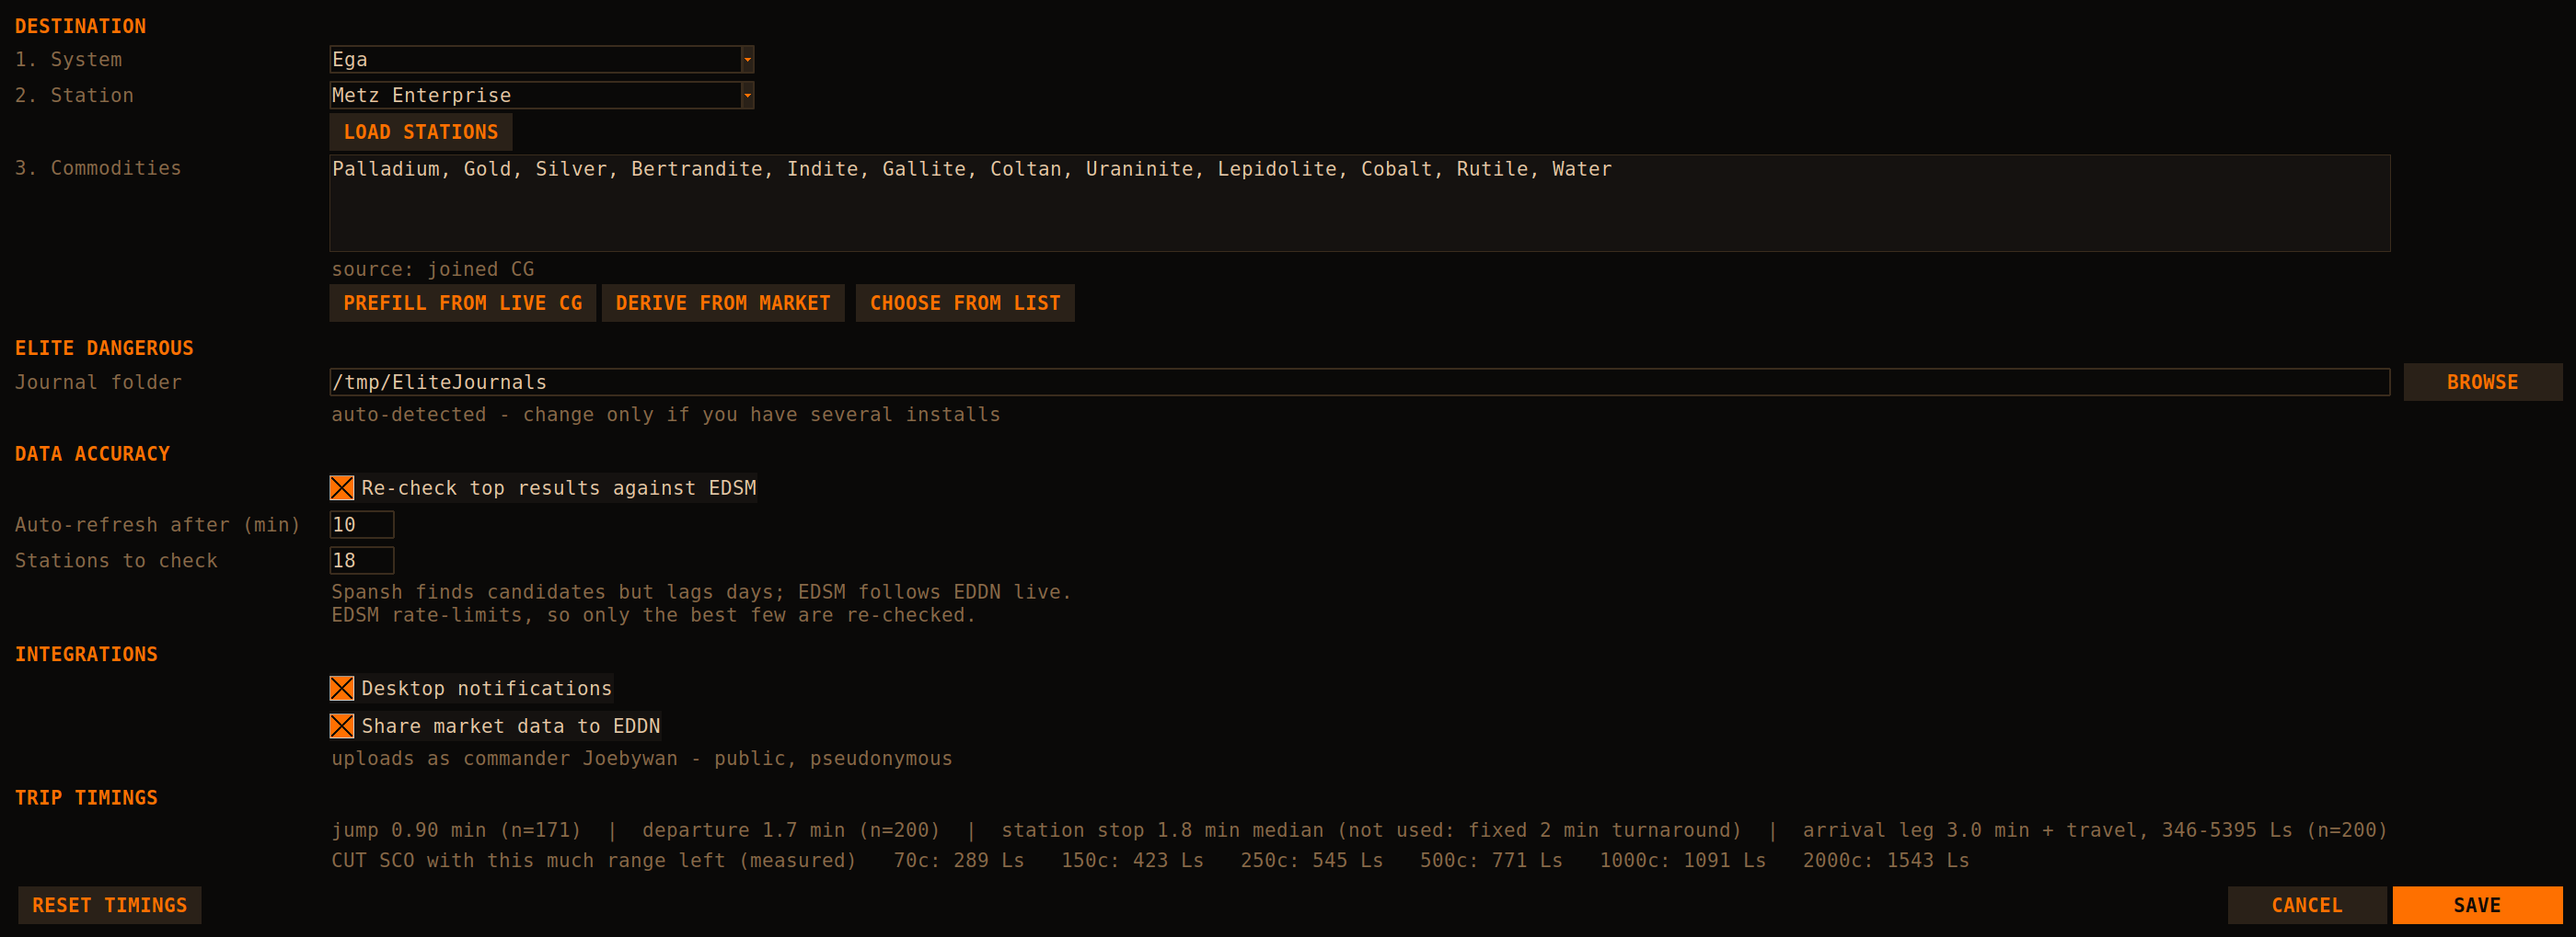
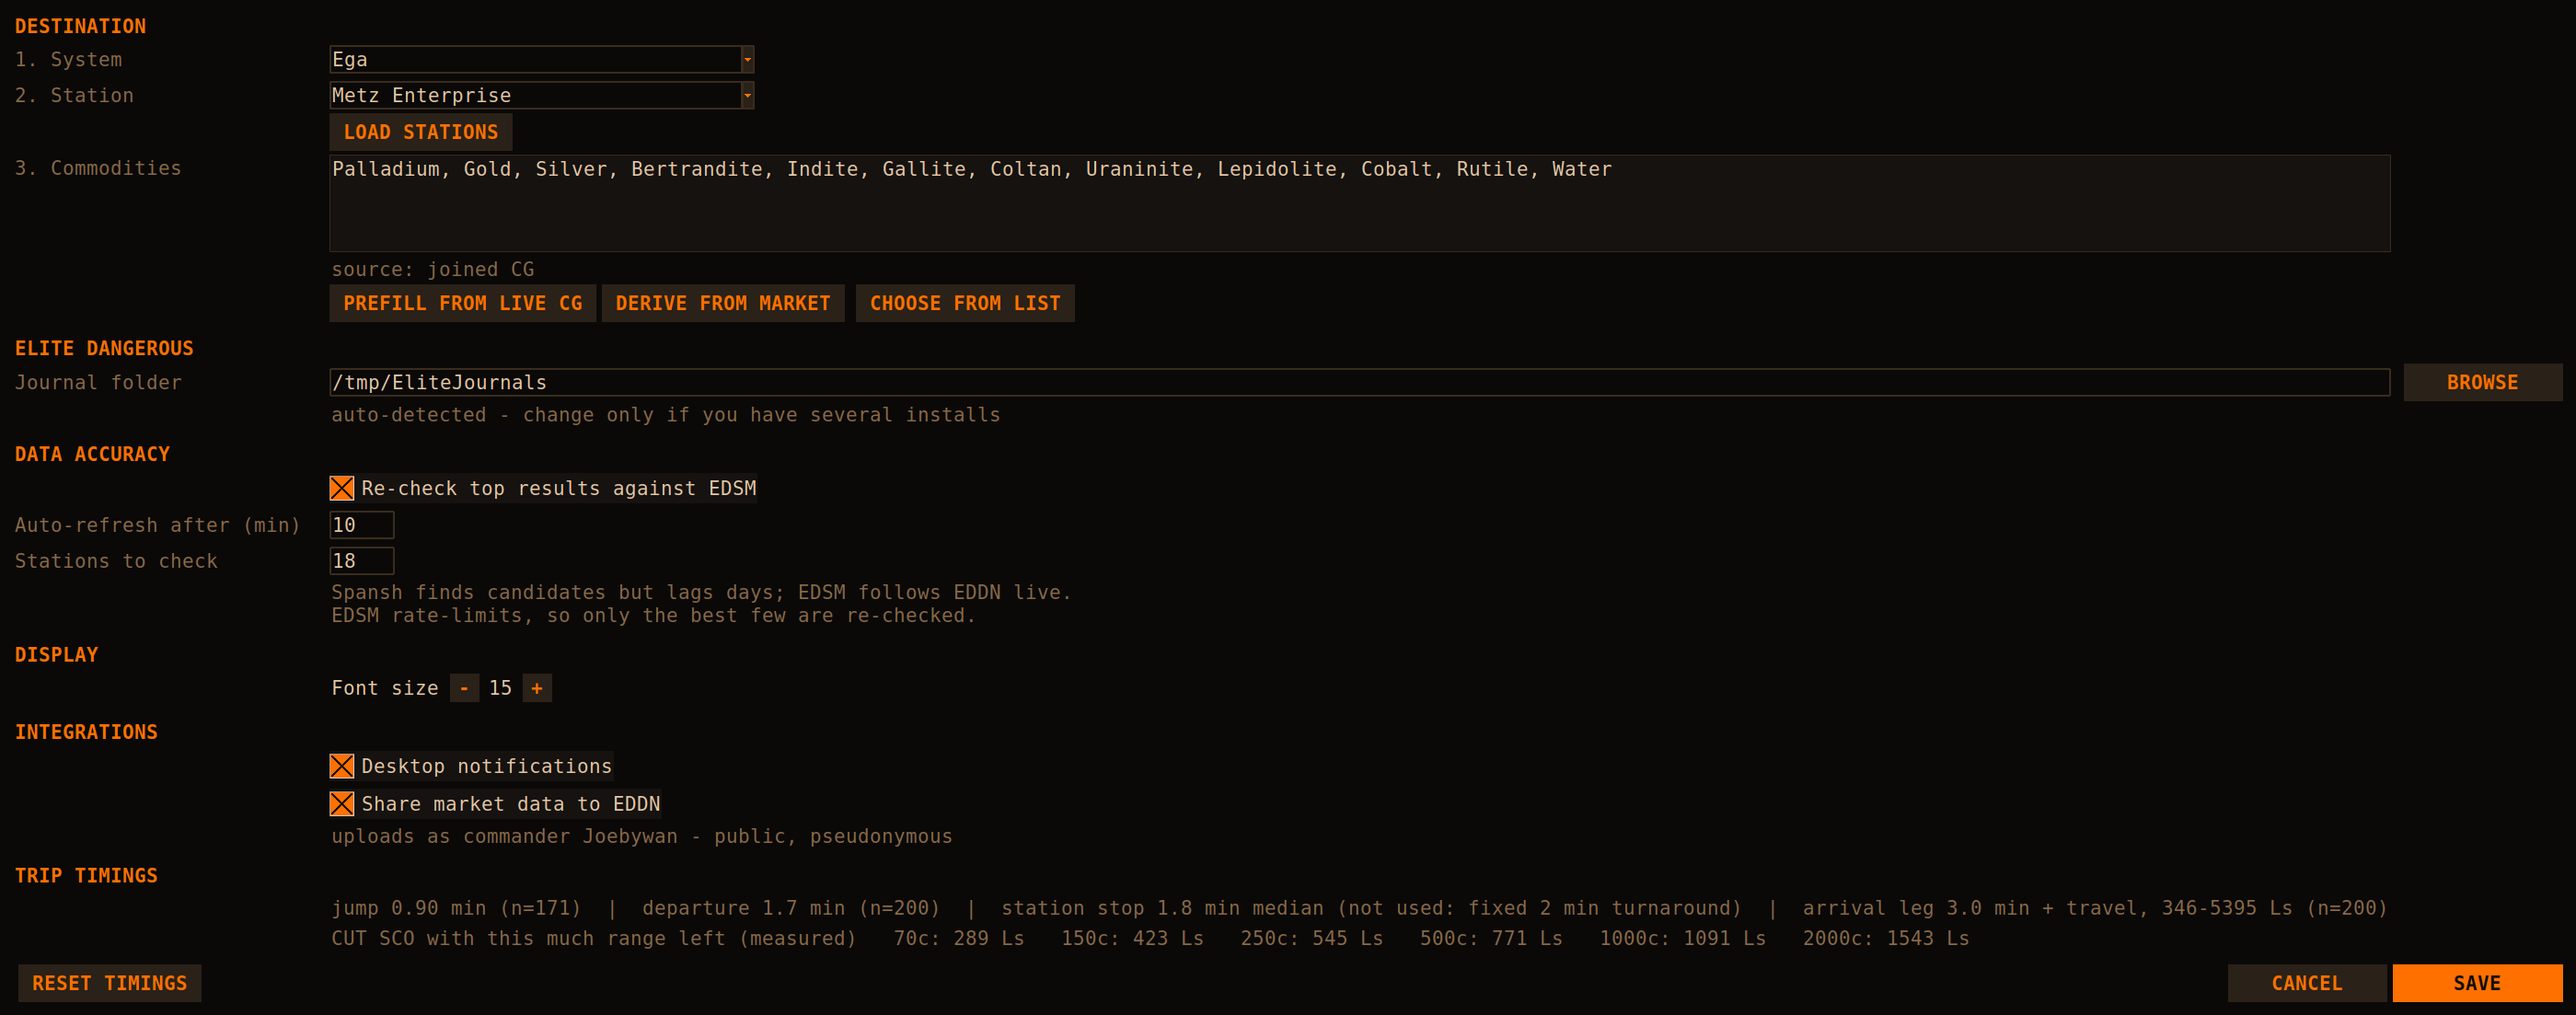
Give the window back to the table (#25)
Four things were holding space they had stopped earning.

CG PAYS listed the sell price of every commodity in the goal, three lines
of it at this font size. Every one of those prices is already inside the
PROFIT/T beside it, which is the number you act on. It moves to a hover on
the destination line, where it can be read on the rare occasion it is
wanted.

The progress bar sat full and orange from the end of one search to the
start of the next - a full-width rule that had finished saying anything.
It is packed while a search runs and put away after.

The status bar was sharing a line three ways and losing: "553 hidden as
stale - raise MAX AGE to see them" was being cut off at "55" by a hint
that reads "click a row to copy its system - trip times are estimates".
The first half of that hint is now said by the copy itself, and the second
stopped being true when trip times were fitted to the journal rather than
guessed. The bar is the search's own line again.

FONT moves into Settings > DISPLAY. It is set once per monitor, and it was
sitting in a row otherwise reserved for the six numbers that change what a
search returns. Ctrl+plus and Ctrl+minus are unchanged.

What stays: the supercruise cut, which is read just before undocking, and
is measured for the hull being flown rather than predicted.

The data's age moves up to the title line, next to the destination it
describes.

diff --git a/README.md b/README.md
@@ -175,8 +175,10 @@ stations, first five expanded.
 | `T/MIN` | tonnes per minute — use this if you care about CG rank rather than credits |
 | `AGE` | how long ago a commander last reported this market; green ≤2 days, amber ≤7, red beyond — a CG drains supply fast |
 
-The header line shows what the CG currently pays for each commodity (the CG
-multiplier is already baked into the EDSM price — the tool does not apply it).
+Hover the destination at the top to see what the CG pays per tonne for each
+commodity (the CG multiplier is already baked into the EDSM price — the tool
+does not apply it). It is a hover rather than a row of its own because every
+one of those prices is already inside the `PROFIT/T` beside it.
 
 ## Interface
 
@@ -185,19 +187,26 @@ minimum supply (200), max data age (7 days), and a fleet-carrier toggle. Enter
 or SEARCH runs it. Rows older than the max age are hidden and the status bar
 says how many; if every row is older, they are shown anyway.
 
+The title line carries the destination and how old the data on screen is. The
+status bar is the search's own line — what was found, what was hidden, what
+went wrong — with the supercruise cut on the right, which is the one figure
+read just before undocking. Nothing else lives in either: a progress bar you
+have finished reading is a full-width orange rule saying nothing, so it is
+only there while a search runs.
+
 Hold and the two jump ranges are marked `*` and locked while your journal can
 see a ship — they are the ship's, not yours to guess at. Hover one to see
 where its number came from. See [Ship detection](#ship-detection).
 
 **Font scaling.** The default size is picked from your screen width (9pt under
-2560px, 14 under 3840, 17 above). The `- 9 +` control, or Ctrl+`+` / Ctrl+`-`,
+2560px, 14 under 3840, 17 above). Ctrl+`+` / Ctrl+`-`, or Settings → DISPLAY,
 rescales everything — fonts, row heights, column widths, and the window itself —
 and the choice is saved.
 
 **Settings** (SETTINGS button): journal folder (auto-detected, override only if
 you have several installs), the destination, how many minutes cached results
-count as fresh (10), how many top results to re-check against EDSM (18),
-toggles for desktop notifications and EDDN, and a readout of current trip
+count as fresh (10), how many top results to re-check against EDSM (18), font
+size, toggles for desktop notifications and EDDN, and a readout of current trip
 timings with a reset.
 
 On startup the last results are shown straight away; if they are older than
